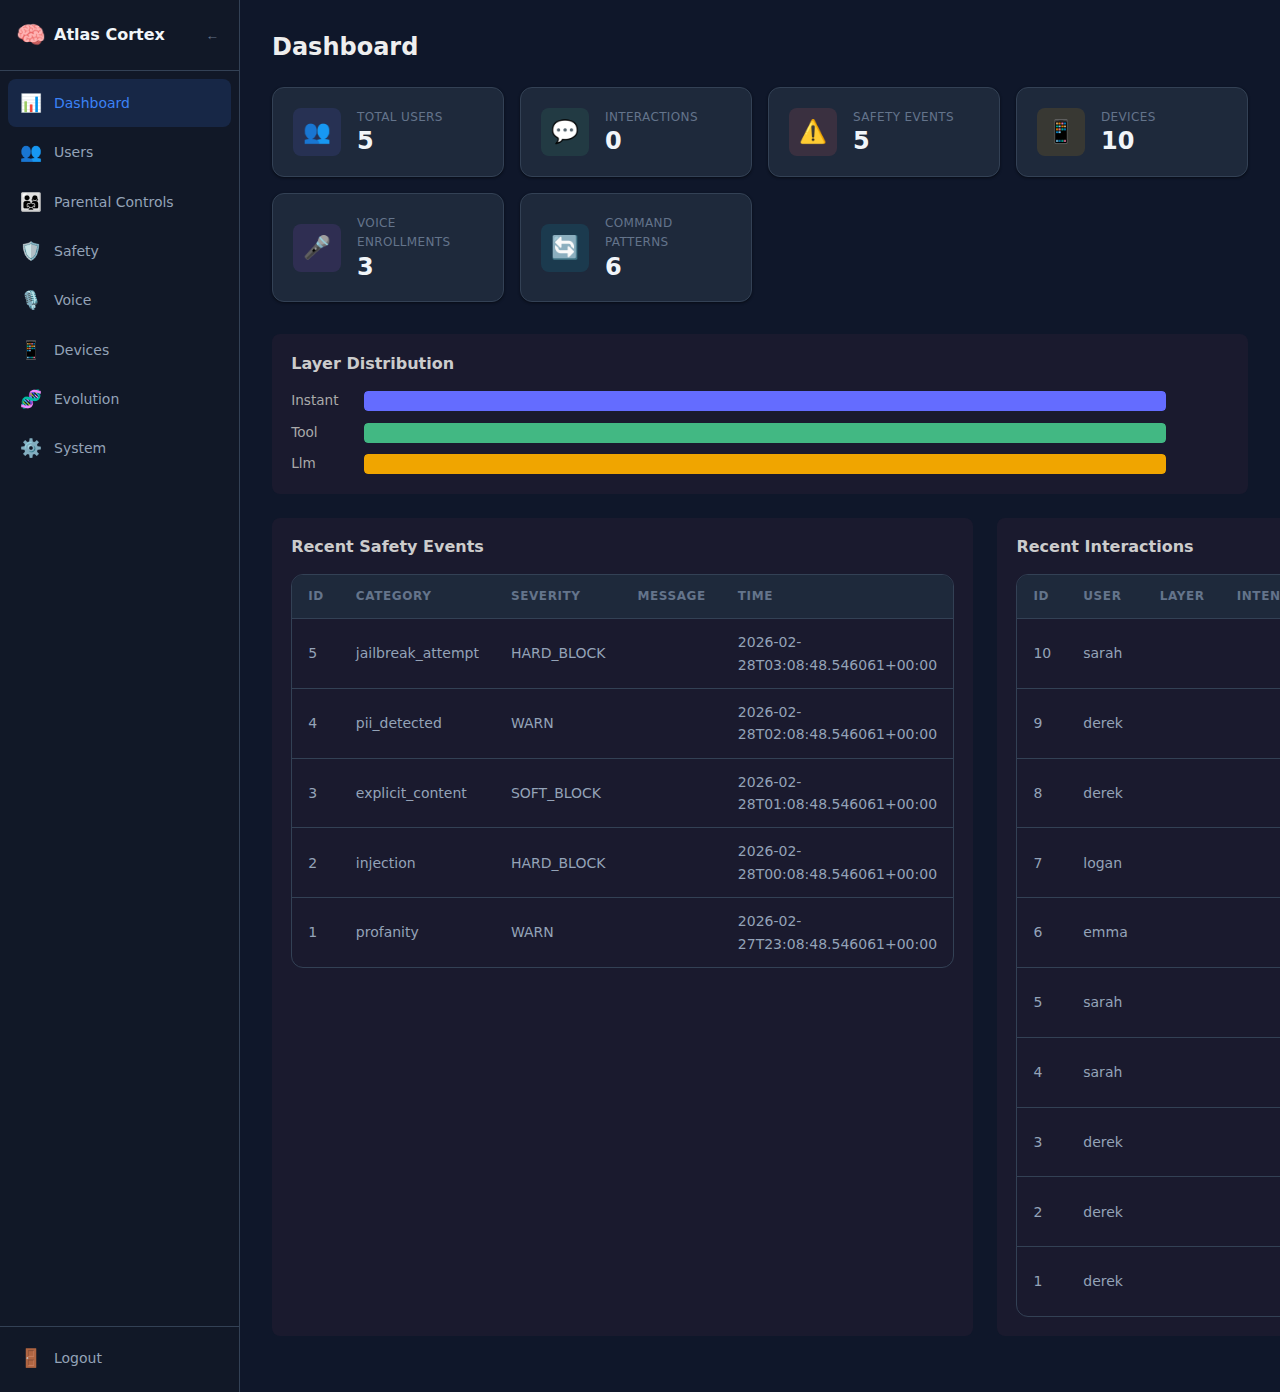
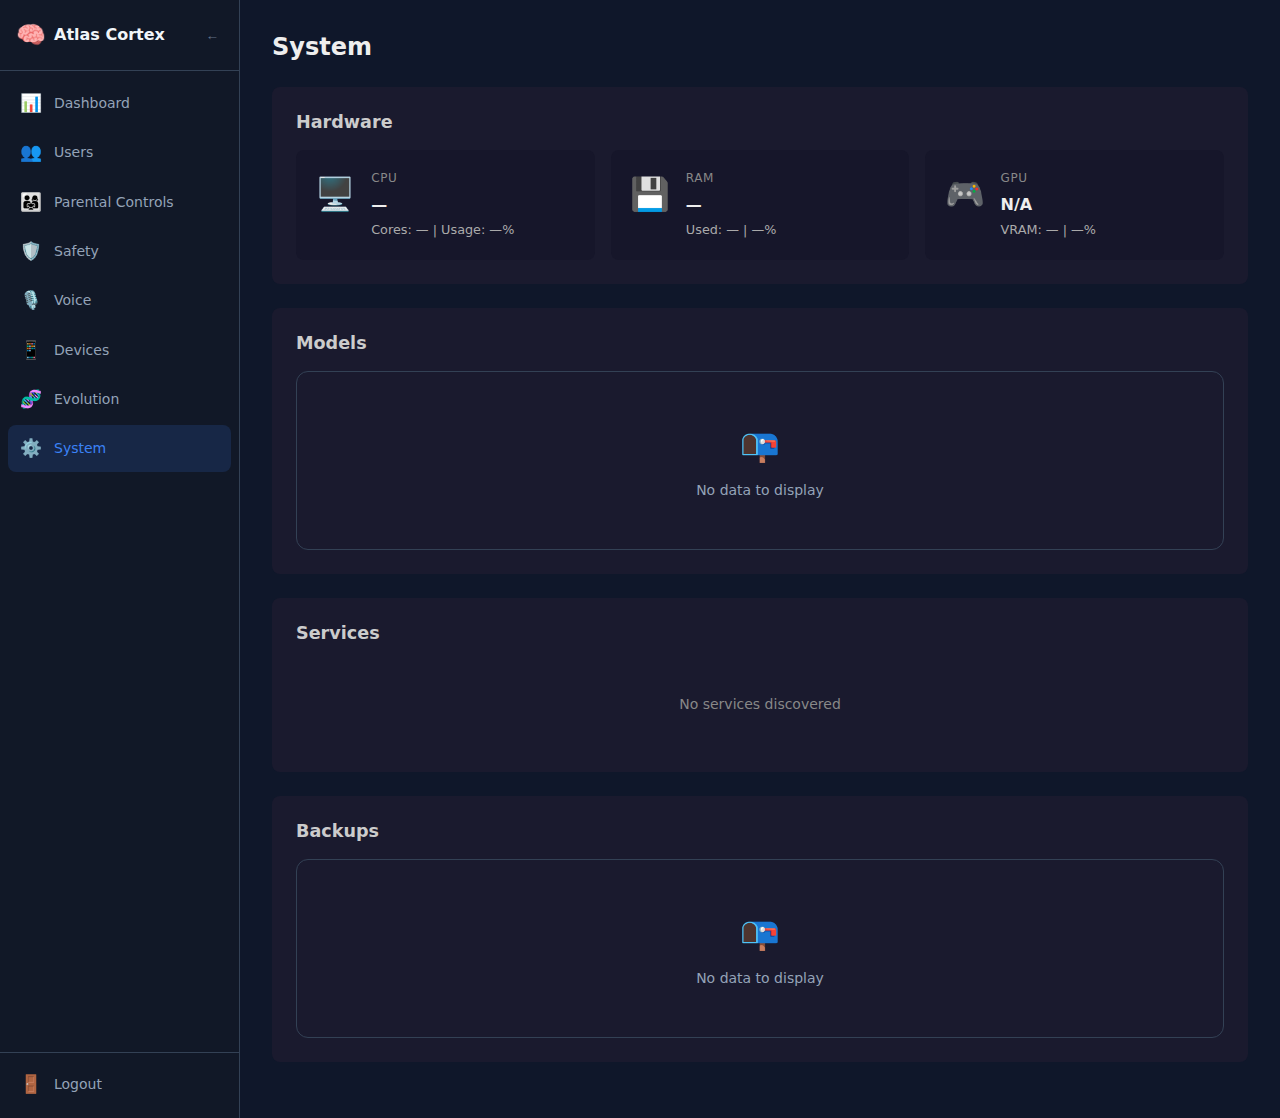
fix: switch Vue Router to hash mode, fix admin screenshots
- Switch from createWebHistory to createWebHashHistory to avoid
  route conflicts with admin API prefix (/admin/*)
- Fix login redirect: use named route { name: 'dashboard' }
  instead of path '/dashboard'
- Fix logout/401 redirects to use hash URLs (/admin/#/login)
- Re-capture all 8 screenshots with proper page navigation
- Update screenshot script to click sidebar nav links

diff --git a/scripts/capture_screenshots.js b/scripts/capture_screenshots.js
@@ -14,7 +14,7 @@ async function main() {
   const ctx = await browser.newContext({ viewport: { width: 1280, height: 800 } });
   const page = await ctx.newPage();
 
-  // Login
+  // Login page
   console.log('→ Login page');
   await page.goto(`${BASE}/admin/`);
   await page.waitForSelector('input[type="text"]', { timeout: 10000 });
@@ -24,50 +24,29 @@ async function main() {
   await page.fill('input[type="text"]', 'admin');
   await page.fill('input[type="password"]', 'atlas-admin');
   await page.click('button[type="submit"]');
-  await page.waitForURL('**/admin/#/dashboard', { timeout: 10000 }).catch(() => {});
-  await page.waitForTimeout(1500);
+  await page.waitForTimeout(2000);
 
-  // Dashboard
+  // Dashboard (should land here after login)
   console.log('→ Dashboard');
-  await page.goto(`${BASE}/admin/#/dashboard`);
-  await page.waitForTimeout(1500);
+  await page.waitForSelector('.nav-item', { timeout: 10000 });
   await page.screenshot({ path: path.join(OUT, 'admin-dashboard.png'), fullPage: true });
 
-  // Users
-  console.log('→ Users');
-  await page.goto(`${BASE}/admin/#/users`);
-  await page.waitForTimeout(1500);
-  await page.screenshot({ path: path.join(OUT, 'admin-users.png'), fullPage: true });
+  // Navigate by clicking sidebar links
+  const pages = [
+    { label: 'Users', file: 'admin-users.png' },
+    { label: 'Safety', file: 'admin-safety.png' },
+    { label: 'Devices', file: 'admin-devices.png' },
+    { label: 'Voice', file: 'admin-voice.png' },
+    { label: 'Evolution', file: 'admin-evolution.png' },
+    { label: 'System', file: 'admin-system.png' },
+  ];
 
-  // Safety
-  console.log('→ Safety');
-  await page.goto(`${BASE}/admin/#/safety`);
-  await page.waitForTimeout(1500);
-  await page.screenshot({ path: path.join(OUT, 'admin-safety.png'), fullPage: true });
-
-  // Devices
-  console.log('→ Devices');
-  await page.goto(`${BASE}/admin/#/devices`);
-  await page.waitForTimeout(1500);
-  await page.screenshot({ path: path.join(OUT, 'admin-devices.png'), fullPage: true });
-
-  // Voice
-  console.log('→ Voice');
-  await page.goto(`${BASE}/admin/#/voice`);
-  await page.waitForTimeout(1500);
-  await page.screenshot({ path: path.join(OUT, 'admin-voice.png'), fullPage: true });
-
-  // Evolution
-  console.log('→ Evolution');
-  await page.goto(`${BASE}/admin/#/evolution`);
-  await page.waitForTimeout(1500);
-  await page.screenshot({ path: path.join(OUT, 'admin-evolution.png'), fullPage: true });
-
-  // System
-  console.log('→ System');
-  await page.goto(`${BASE}/admin/#/system`);
-  await page.waitForTimeout(1500);
-  await page.screenshot({ path: path.join(OUT, 'admin-system.png'), fullPage: true });
+  for (const p of pages) {
+    console.log(`→ ${p.label}`);
+    await page.click(`.nav-item:has-text("${p.label}")`);
+    await page.waitForTimeout(2000);
+    await page.screenshot({ path: path.join(OUT, p.file), fullPage: true });
+  }
 
   await browser.close();
   console.log(`\n✅ Screenshots saved to ${OUT}`);

diff --git a/admin/src/views/LoginView.vue b/admin/src/views/LoginView.vue
@@ -10,7 +10,7 @@ const error = ref('')
 const loading = ref(false)
 
 onMounted(() => {
-  if (isAuthenticated()) router.replace('/dashboard')
+  if (isAuthenticated()) router.replace({ name: 'dashboard' })
 })
 
 async function handleLogin() {
@@ -18,7 +18,7 @@ async function handleLogin() {
   loading.value = true
   try {
     await login(username.value, password.value)
-    router.push('/dashboard')
+    router.push({ name: 'dashboard' })
   } catch (e) {
     error.value = e.message || 'Login failed'
   } finally {

diff --git a/admin/src/api.js b/admin/src/api.js
@@ -32,7 +32,7 @@ async function request(method, url, data) {
 
   if (res.status === 401) {
     clearToken();
-    window.location.href = '/admin/login';
+    window.location.href = '/admin/#/login';
     throw new Error('Unauthorized');
   }
 
@@ -74,7 +74,7 @@ export async function login(username, password) {
 
 export function logout() {
   clearToken();
-  window.location.href = '/admin/login';
+  window.location.href = '/admin/#/login';
 }
 
 export { getToken, isAuthenticated };

diff --git a/admin/src/router/index.js b/admin/src/router/index.js
@@ -1,4 +1,4 @@
-import { createRouter, createWebHistory } from 'vue-router';
+import { createRouter, createWebHashHistory } from 'vue-router';
 import { isAuthenticated } from '../api.js';
 
 const routes = [
@@ -56,7 +56,7 @@ const routes = [
 ];
 
 const router = createRouter({
-  history: createWebHistory('/admin/'),
+  history: createWebHashHistory('/admin/'),
   routes,
 });
 
